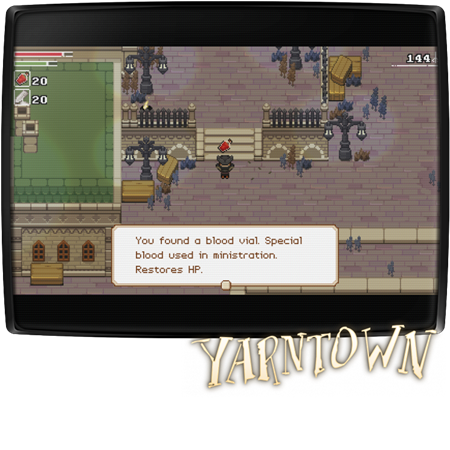
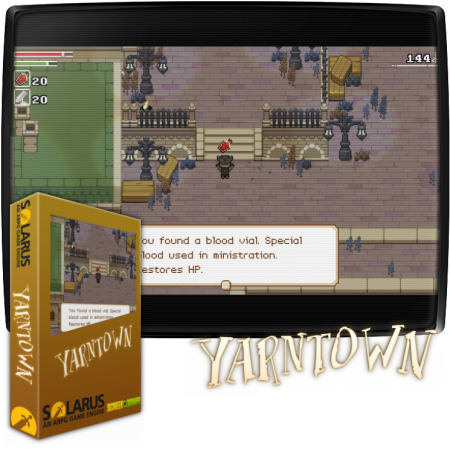
fix(screenshot-media): update images for yarntown and craft
fix(screenshot-media): update images for yarntown and craft

diff --git a/TESTING.md b/TESTING.md
@@ -14,6 +14,7 @@ Pour les pending features, elles ne seront activées que si les beta testeurs le
 ## [NEXT]
 - [ ] Check letters order in recalbox.conf for odroidgo2, odroidxu4 and rpi4 (#1795)
 - [ ] Check that the mednafen psx hw and glide64mk2 cores appear as the default core on x64 (#2018)
+- [ ] Check screenshot for yarntown game on solarus and craft on ports (#2017)
 - [ ] Check the favorite icons of outrun and gong (in the ports system) (#2010)
 - [ ] Test libretro core Gong on all boards (#1986)
 - [ ] Check recalbox.log contains script and type information (#1920)

diff --git a/CHANGELOG.md b/CHANGELOG.md
@@ -6,6 +6,7 @@ All notable changes to this project will be documented in this file.
 - Do not play hidden game in screensaver (#1975)
 - Fix letters order in recalbox.conf (#1795)
 - Fix default core psx and n64 for x64 (#2018)
+- Fix screenshot for yarntown game on solarus and craft on ports (#2017)
 - Fix dolphin bar detection (#1967)
 - Fix supermodel service button (#2015)
 - Change image name and descriptions in rpi imager (#2000)
